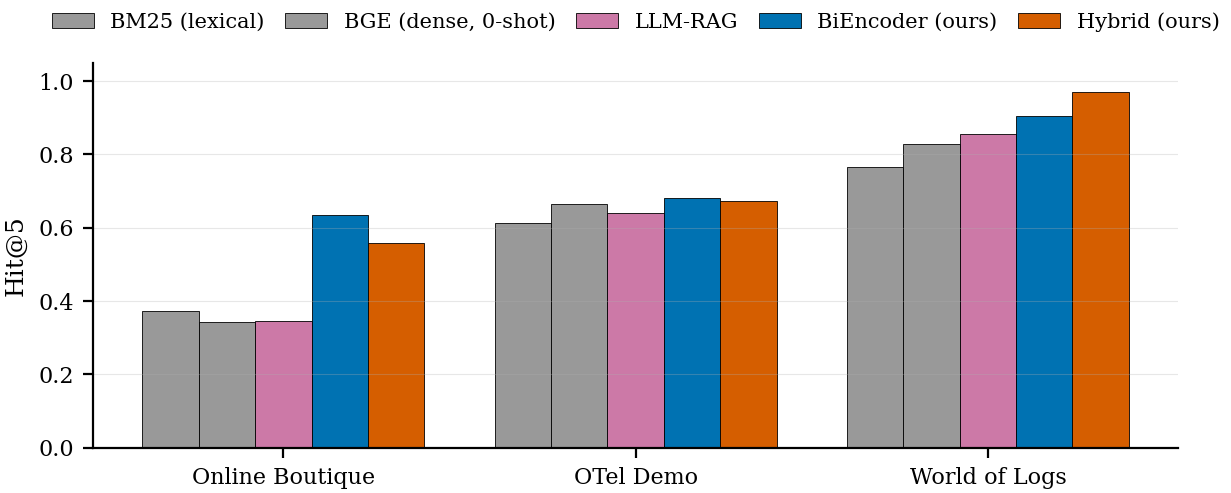
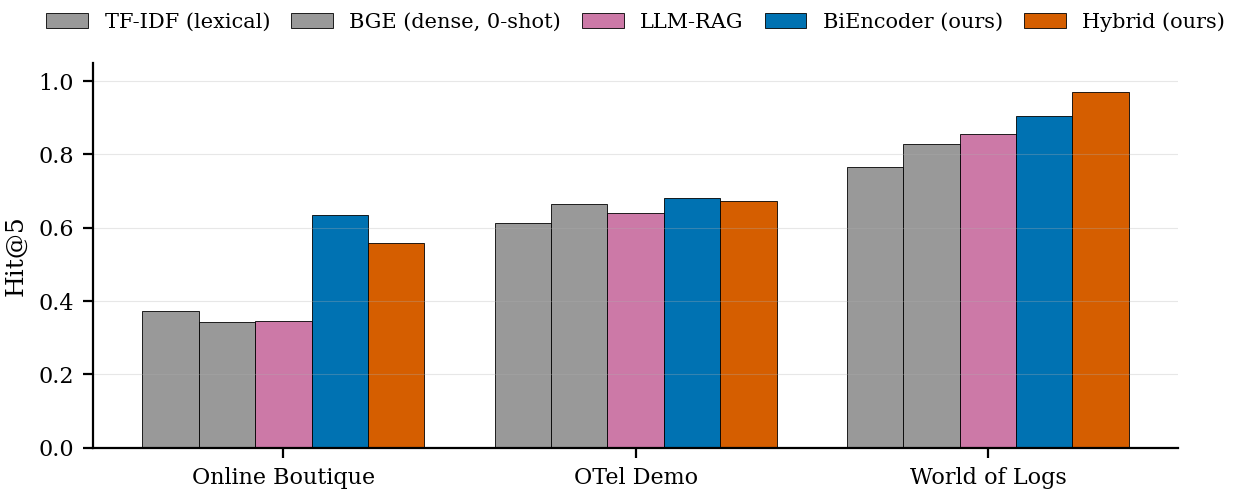
paper: standardize lexical baseline on TF-IDF (0.77) for consistency
Intro/abstract said lexical=0.73 (BM25 raw) while Table II shows TF-IDF=0.77;
TF-IDF is the only lexical baseline clean across all 3 datasets. Aligned
abstract+intro to 0.77 and fixed the retrieval figure label (was mislabeling
TF-IDF as BM25).

diff --git a/ICSE/main.tex b/ICSE/main.tex
@@ -37,7 +37,7 @@
 \begin{abstract}
 On-call engineers triage a steady stream of alerts, yet their most valuable source of diagnostic knowledge is institutional memory: how similar incidents were previously diagnosed and resolved. Retrieving the right historical incident for a live one, however, remains difficult, particularly because existing automated-triage approaches are largely evaluated on synthetic fault-injection telemetry under fixed observability assumptions, leaving their effectiveness on real engineer-written incidents largely unexplored.
 We present \textbf{REMEDY}, an adaptive incident-triage framework that retrieves relevant historical incidents while dynamically selecting the reasoning capabilities supported by the available operational evidence. Rather than assuming a fixed telemetry pipeline, REMEDY adapts seamlessly across heterogeneous evidence regimes—from rich telemetry to text-only incident reports—combining dense, lexical, and knowledge-graph retrieval with capability-aware orchestration that invokes additional reasoning only when uncertainty justifies its cost.
-We evaluate REMEDY on three datasets of increasing realism. Two are newly collected and released telemetry-to-ticket datasets built from controlled fault injection in open-source microservice applications, pairing logs, metrics, distributed traces, cluster events, incident tickets, and per-window ground-truth labels. The third is a large real-world corpus of 38,642 resolved Apache Jira incidents spanning 24 projects. On real incidents, REMEDY retrieves the correct prior incident within its top five results 97\% of the time, significantly outperforming dense (0.91), lexical (0.73), graph (0.31), and retrieval-augmented LLM (0.86) baselines. Its adaptive orchestration preserves retrieval quality while reducing triage cost by up to 78\%.
+We evaluate REMEDY on three datasets of increasing realism. Two are newly collected and released telemetry-to-ticket datasets built from controlled fault injection in open-source microservice applications, pairing logs, metrics, distributed traces, cluster events, incident tickets, and per-window ground-truth labels. The third is a large real-world corpus of 38,642 resolved Apache Jira incidents spanning 24 projects. On real incidents, REMEDY retrieves the correct prior incident within its top five results 97\% of the time, significantly outperforming dense (0.91), lexical (0.77), graph (0.31), and retrieval-augmented LLM (0.86) baselines. Its adaptive orchestration preserves retrieval quality while reducing triage cost by up to 78\%.
 More importantly, our controlled comparison between synthetic and real incidents reveals that the ticket-worthiness classification task dominating existing benchmarks is nearly saturated on synthetic telemetry yet no better than chance on real incidents, indicating that the transferable challenge in operational incident triage lies in retrieving relevant historical incidents rather than classifying alerts. This finding reframes how operational incident-triage systems should be evaluated. We publicly release our datasets, code, evaluation harness, and experimental results.
 
 \end{abstract}

diff --git a/ICSE/sections/01-introduction.tex b/ICSE/sections/01-introduction.tex
@@ -43,7 +43,7 @@ To evaluate both adaptability across heterogeneous evidence regimes and transfer
 incident among its top five $97\%$ of the time. This improves on each of its own
 fused components in isolation---a fine-tuned dense bi-encoder ($0.91$) and a
 knowledge-graph retriever ($0.31$)---and on external baselines, including
-classical lexical search ($0.73$) and a retrieval-augmented large-language-model
+classical lexical search ($0.77$) and a retrieval-augmented large-language-model
 reranker ($0.86$); every gap survives multiple-comparison correction. The end-to-end
 system reaches $0.96$ while its capability gating cuts per-window triage cost by
 up to $78\%$ relative to running every step on every window, with no loss in

diff --git a/scripts/research-lab/make_paper_figures.py b/scripts/research-lab/make_paper_figures.py
@@ -44,7 +44,7 @@ def fig_retrieval():
     def cas(ds, m): r = _load(PR/"retrieval-cascades"/ds/f"{m}-mode3-results.json"); return r["coarse"]["hit_at_5"] if r else None
     def bse(fam, ds, m): r = _load(PR/"baselines"/fam/ds/f"{m}-results.json"); return r["coarse"]["hit_at_5"] if r else None
     rows = [
-        ("BM25 (lexical)",      C["prior"], lambda d: bse("tfidf", d, "tfidf")),
+        ("TF-IDF (lexical)",    C["prior"], lambda d: bse("tfidf", d, "tfidf")),
         ("BGE (dense, 0-shot)", C["prior"], lambda d: bse("sota-dense", d, "bge")),
         ("LLM-RAG",             C["llm"],   lambda d: bse("llm-rag", d, "llm-rag")),
         ("BiEncoder (ours)",    C["ours"],  lambda d: cas(d, "biencoder")),